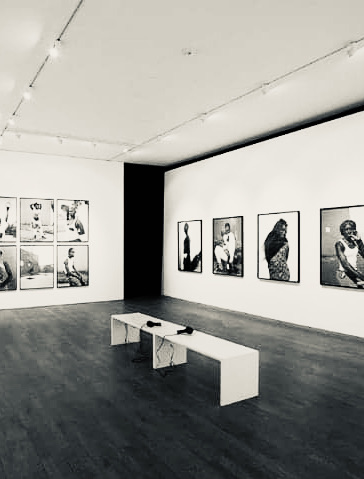
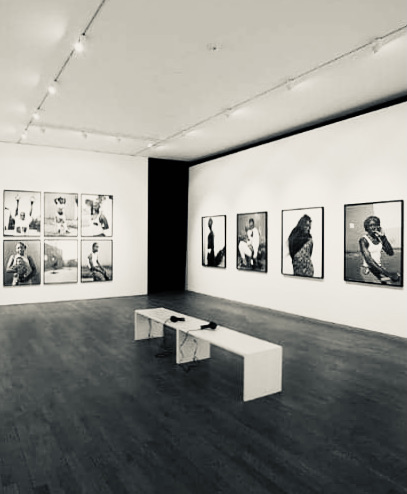
Remove bug causing pages to shift - misplaced curly bracket.

diff --git a/assets/css/style.css b/assets/css/style.css
@@ -309,6 +309,7 @@ display: none;
 }
 
 #gallery-pic {
+
     opacity: 0.2;
     display: block;
     margin-left: auto;
@@ -328,22 +329,44 @@ display: none;
 
 #exhibitions div {
 
-
+    float: left;
     position: absolute;
     text-decoration: none;
     list-style-type: none;
     color: #0f0f0d;
+    
     height: auto;
     margin-right: auto;
     margin-left: auto;
     text-align: center;
-    padding: 20px 10px 20px 30px;
+    padding: 20px 10px 20px 10px;
     border: 2px solid #0f0f0d;
     height: 35%;
     width: 20%;
     top: 30%;
 
 }
+
+#leftside {
+
+    position: absolute;
+    left: 10%
+
+}
+
+#middle {
+
+    position: absolute;
+    left: 39%;
+
+}
+
+#rightside {
+
+    position: absolute;
+    right: 10%;
+}
+
 
 
 
@@ -390,8 +413,8 @@ display: none;
 #footer {
     
     height: 200px;
-    width: 100%;
     clear: both;
+    width: 100%;
     position: absolute;
     bottom: 0;
     
@@ -526,23 +549,12 @@ footer ul {
     
 }
 
-    #title {
-    
-        font-size: 110%;
-        vertical-align: middle;
-        margin-top: 35%;
-        margin-left: 22%;
-        width: 55%;
-        position: absolute;
-
-    }
 
    .centered {
        left: 16%;
 
    }
 
-   
    #header-menu {
     font-size: 100%;
     letter-spacing: 3px;
@@ -658,13 +670,8 @@ display: none;
  #gallery-pic {
     display: none;
         }
+    
 
- #exhibitions {
-
-    color: #0f0f0d;
-    font-size: 110%;
-
-}
 
 #gallery-pic-2 {
 
@@ -675,53 +682,32 @@ display: none;
     margin-top: 2%;
     margin-bottom: 2%;
     height: auto;
-    width: 75%;
-    position: relative;
-
+    width: 80%;
     
     }
 
-    #exhibitions div {
-
-
+    
+    #leftside {
+    
         position: absolute;
-        text-decoration: none;
-        list-style-type: none;
-        color: #0f0f0d;
-        height: auto;
-        margin-right: auto;
-        margin-left: auto;
-        text-align: center;
-        padding: 20px 10px 20px 10px;
-        border: 2px solid #0f0f0d;
-        height: 35%;
-        width: 20%;
-        top: 30%;
+        left: 10%
     
     }
+    
+    #middle {
+    
+        position: absolute;
+        left: 38.5%;
+    
+    }
+    
+    #rightside {
+    
+        position: absolute;
+        right: 10%;
     }
 
-#leftside {
-    
-    left: 8%;
 
-   
-}
-
-#middle {
-    
-    left: 38.5%;
-
-    
-
-}
-
-#rightside {
-    
-    right: 8%;
-    
-    
-}
 #contact {
     
     margin-top: 16%;
@@ -770,6 +756,9 @@ display: none;
     .leftside li {
         padding: 4px;
     }
+
+}
+
 
 /* Small devices ie phones (350px and down) */
 @media screen and (max-width: 350px) {
